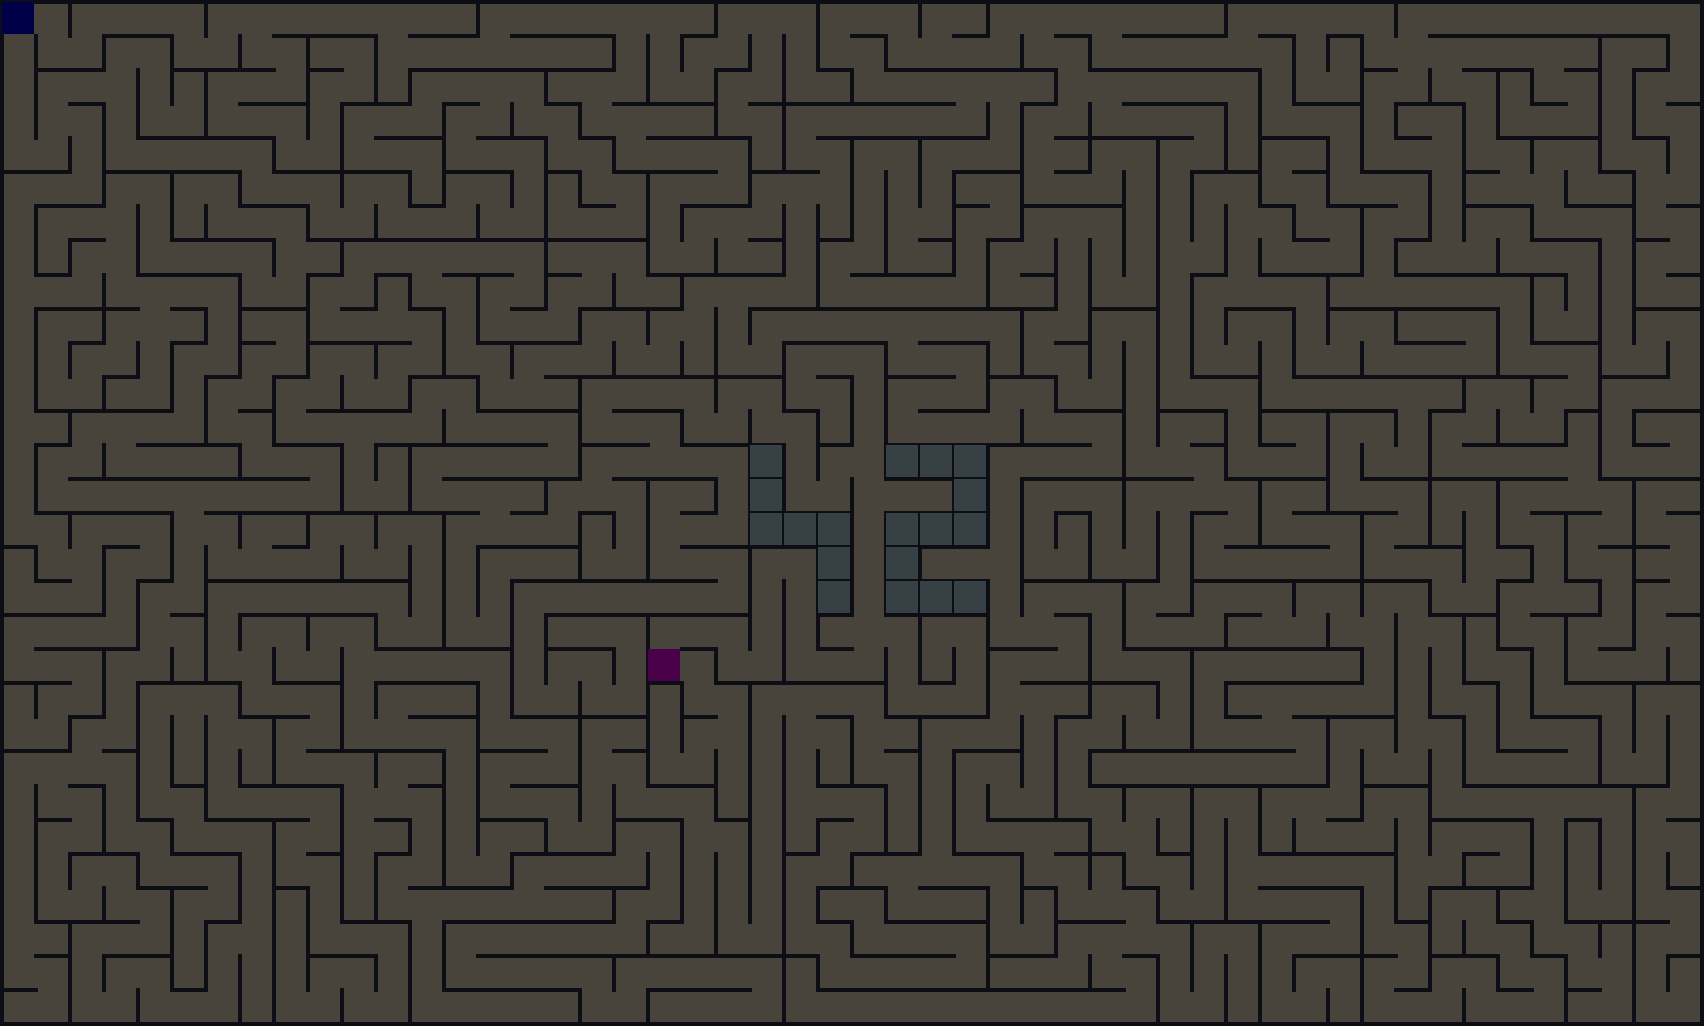
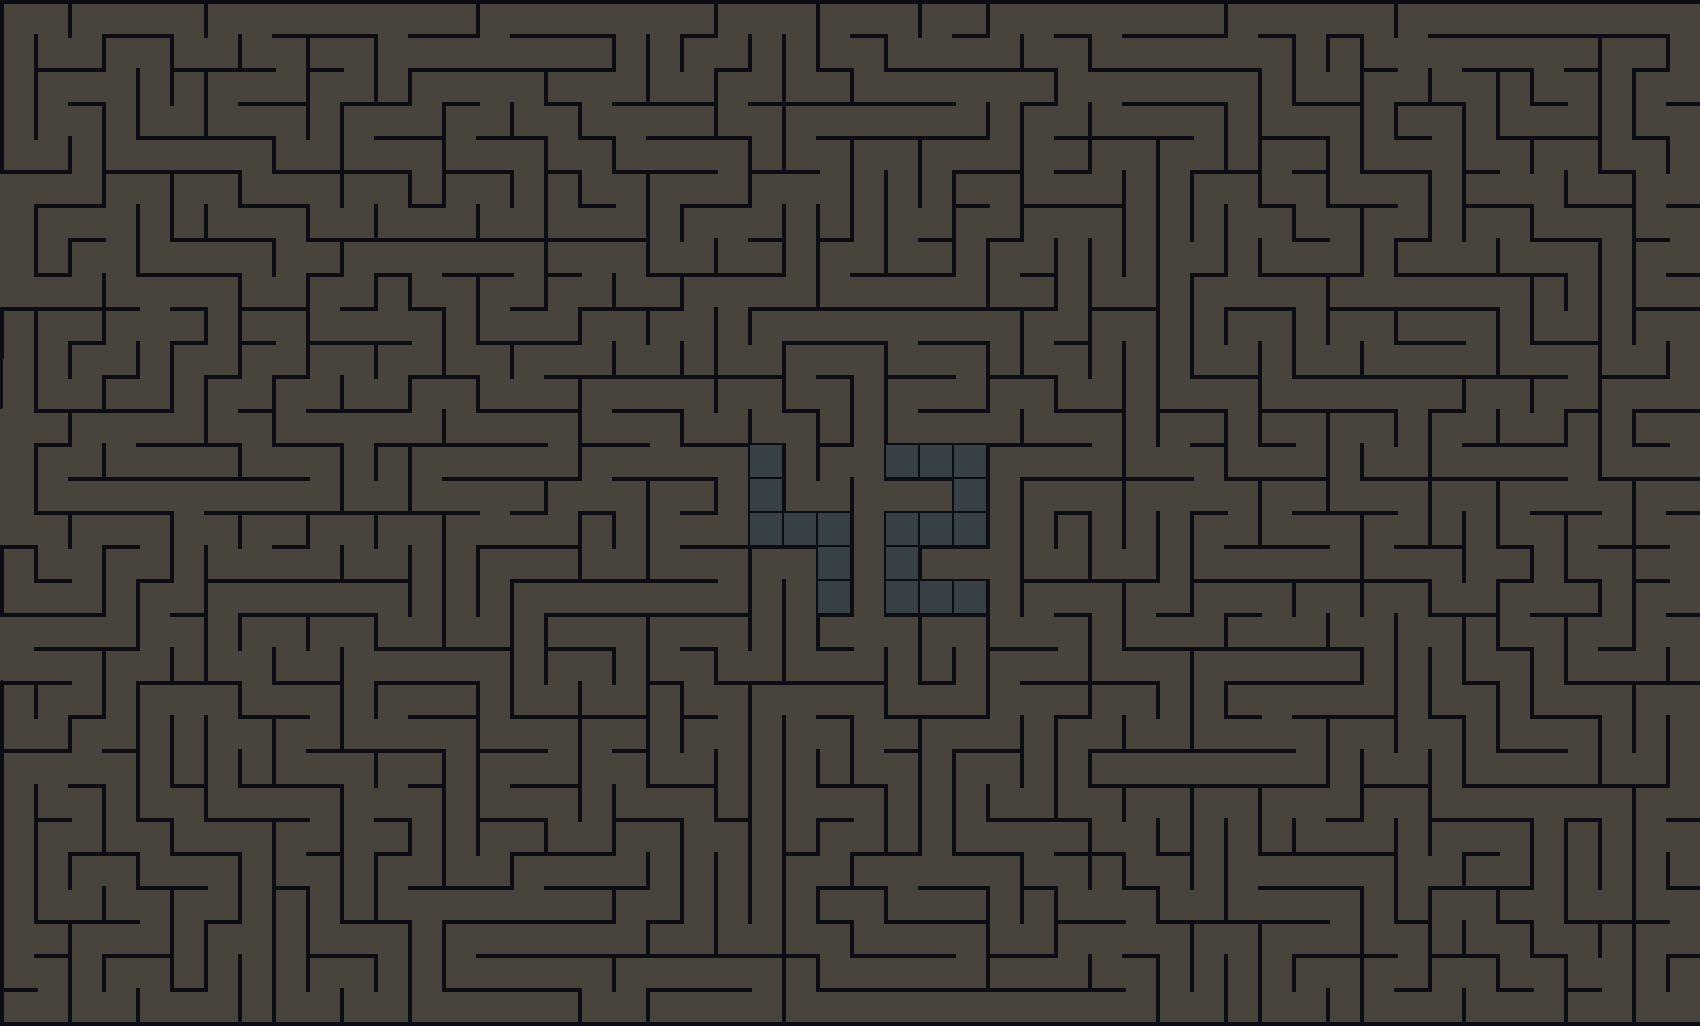
feat: Making the loop for the background

diff --git a/src/rendering/screen/highscore.py b/src/rendering/screen/highscore.py
@@ -9,14 +9,14 @@ class HighScore(Screen):
         super().__init__(xmain)
         self.load_assets(
             {
-                "back2": "assets/Back2.png",
+                "back": "assets/Back2.png",
                 "logo": "assets/HighScore.png",
                 "backtomain": "assets/button/backtomain.png",
             }
         )
         self.set_position(
             {
-                "back2": (0, random.randint(-300, 0)),
+                "back": (0, random.randint(-500, 0)),
                 "logo": (
                     self.get_center(self.assets["logo"].width),
                     50,
@@ -29,9 +29,14 @@ class HighScore(Screen):
         )
 
     def render(self) -> None:
-        self.xmain.mlx.mlx_clear_window(self.xmain.mlx_ptr, self.xmain.mlx_window)
-
-        for _, image in self.assets.items():
+        self.xmain.mlx.mlx_clear_window(
+            self.xmain.mlx_ptr,
+            self.xmain.mlx_window,
+        )
+        self.render_background()
+        for name, image in self.assets.items():
+            if name == "back":
+                continue
             self.xmain.mlx.mlx_put_image_to_window(
                 self.xmain.mlx_ptr,
                 self.xmain.mlx_window,
@@ -43,9 +48,24 @@ class HighScore(Screen):
     def update(self, dt: float) -> None:
         self.time += dt
         self.assets["logo"].pos_y = 50 + math.sin(self.time) * 15
-        self.assets["back2"].pos_x -= dt * 30
+        self.assets["back"].pos_x -= dt * 30
 
     def get_input(self, key: int, _) -> str | None:
         if key == 113:
             return "main"
         print(key)
+
+    def render_background(self) -> None:
+        image_width = self.assets["back"].width
+
+        x = self.assets["back"].pos_x
+
+        while x < self.xmain.screen_w:
+            self.xmain.mlx.mlx_put_image_to_window(
+                self.xmain.mlx_ptr,
+                self.xmain.mlx_window,
+                self.assets["back"].img,
+                int(x),
+                int(self.assets["back"].pos_y),
+            )
+            x += image_width

diff --git a/src/rendering/screen/main.py b/src/rendering/screen/main.py
@@ -19,7 +19,7 @@ class MainScreen(Screen):
         )
         self.set_position(
             {
-                "back": (0, random.randint(-300, 0)),
+                "back": (0, random.randint(-500, 0)),
                 "logo": (
                     self.get_center(self.assets["logo"].width),
                     50,
@@ -66,12 +66,9 @@ class MainScreen(Screen):
         self.assets["back"].pos_x -= dt * 30
 
     def render_instruction(self):
-        self.xmain.mlx.mlx_clear_window(
-            self.xmain.mlx_ptr,
-            self.xmain.mlx_window,
-        )
-
-        for _, image in self.assets.items():
+        for name, image in self.assets.items():
+            if name == "back":
+                continue
             self.xmain.mlx.mlx_put_image_to_window(
                 self.xmain.mlx_ptr,
                 self.xmain.mlx_window,
@@ -81,4 +78,24 @@ class MainScreen(Screen):
             )
 
     def render(self) -> None:
+        self.xmain.mlx.mlx_clear_window(
+            self.xmain.mlx_ptr,
+            self.xmain.mlx_window,
+        )
+        self.render_background()
         self.render_instruction()
+
+    def render_background(self) -> None:
+        image_width = self.assets["back"].width
+
+        x = self.assets["back"].pos_x
+
+        while x < self.xmain.screen_w:
+            self.xmain.mlx.mlx_put_image_to_window(
+                self.xmain.mlx_ptr,
+                self.xmain.mlx_window,
+                self.assets["back"].img,
+                int(x),
+                int(self.assets["back"].pos_y),
+            )
+            x += image_width
